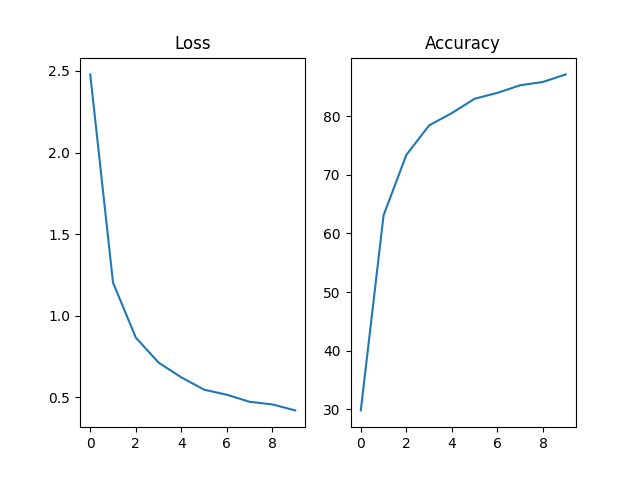
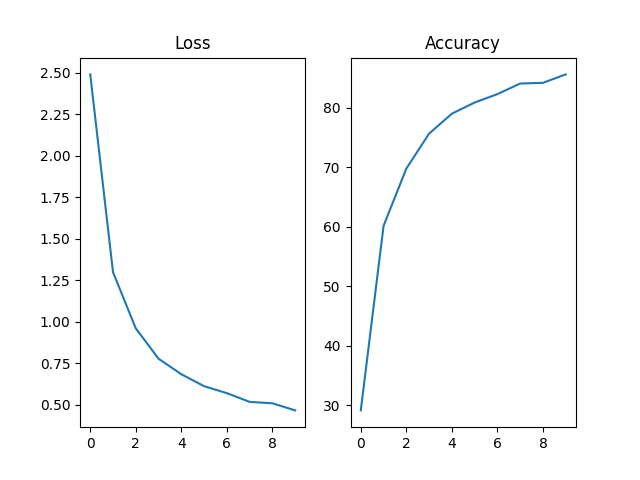
edited model architecture and less params in model

diff --git a/cyrrilic_mnist/train_model.py b/cyrrilic_mnist/train_model.py
@@ -98,10 +98,10 @@ class rCNN(nn.Module):
 
         # block result
         self.flatten = nn.Flatten()
-        self.fc1 = nn.Linear(128 * 4 * 4, 512)
+        self.fc1 = nn.Linear(128 * 3 * 3, 256)
         self.relu4 = nn.ReLU()
         self.dropout = nn.Dropout(0.5)
-        self.fc2 = nn.Linear(512, cnt_classes)
+        self.fc2 = nn.Linear(256, cnt_classes)
 
     def forward(self, x):
         x = self.conv1(x)
@@ -128,7 +128,7 @@ class rCNN(nn.Module):
 
 
 train_transform = transforms.Compose([
-    transforms.Resize((32, 32)),
+    transforms.Resize((28, 28)),
     transforms.RandomRotation(15),
     transforms.RandomAffine(
         degrees=0,
@@ -139,7 +139,7 @@ train_transform = transforms.Compose([
     transforms.Normalize((0.5,), (0.5,))
 ])
 test_transform = transforms.Compose([
-    transforms.Resize((32, 32)),
+    transforms.Resize((28, 28)),
     transforms.ToTensor(),
     transforms.Normalize((0.5,), (0.5,))
 ])
